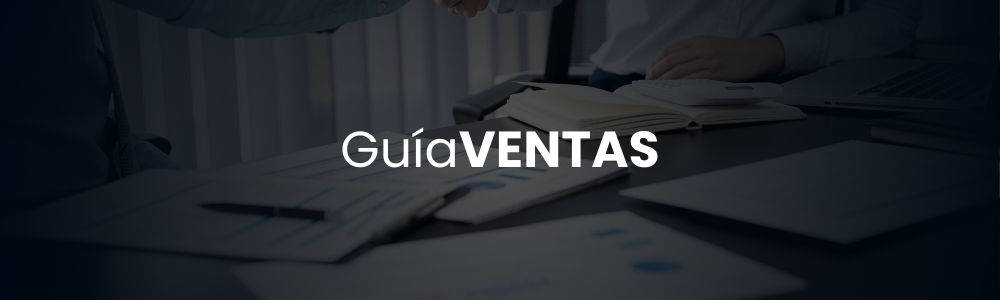
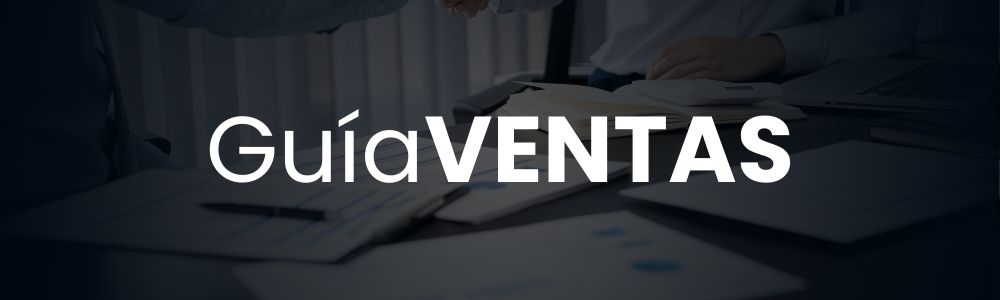
Subiendo cambios y nuevas imágenes

Changed region(s): [[0.186, 0.36, 0.806, 0.63]]

diff --git a/components/CalculatorTabs.js b/components/CalculatorTabs.js
@@ -17,30 +17,35 @@ export default function CalculatorTabs() {
 
   return (
     <div className={`${poppins.className} calculator-tabs`}>
-      {/* Se agrega padding superior para separar del header */}
-      <div style={{ paddingTop: "2rem" }}>
-        {/* Pestañas */}
-        <div className="tabs">
-          <button
-            className={activeTab === "renders" ? "active" : ""}
-            onClick={() => setActiveTab("renders")}
-          >
-            Calculadora de Renders
-          </button>
-          <button
-            className={activeTab === "360" ? "active" : ""}
-            onClick={() => setActiveTab("360")}
-          >
-            Calculadora de Vistas 360
-          </button>
-          <button
-            className={activeTab === "recorridos" ? "active" : ""}
-            onClick={() => setActiveTab("recorridos")}
-          >
-            Recorridos Virtuales
-          </button>
+      {/* Contenedor general */}
+      <div className="container">
+        {/* Pestañas Flotantes con Más Espacio en Móvil */}
+        <div className="tabs-wrapper">
+          <div className="tabs">
+            <button
+              className={activeTab === "renders" ? "active" : ""}
+              onClick={() => setActiveTab("renders")}
+            >
+              Calculadora de Renders
+            </button>
+            <button
+              className={activeTab === "360" ? "active" : ""}
+              onClick={() => setActiveTab("360")}
+            >
+              Calculadora de Vistas 360
+            </button>
+            <button
+              className={activeTab === "recorridos" ? "active" : ""}
+              onClick={() => setActiveTab("recorridos")}
+            >
+              Recorridos Virtuales
+            </button>
+          </div>
         </div>
       </div>
+
+      {/* Espaciador ajustado para evitar que el contenido quede cubierto */}
+      <div className="spacer"></div>
 
       {/* Contenido de la pestaña activa */}
       <div className="tab-content">
@@ -50,41 +55,107 @@ export default function CalculatorTabs() {
       </div>
 
       <style jsx>{`
+        /* Contenedor principal */
         .calculator-tabs {
           width: 100%;
           max-width: 1200px;
           margin: 3rem auto;
+          padding: 1rem;
         }
+
+        /* Contenedor con padding para evitar que se vea muy pegado */
+        .container {
+          max-width: 100%;
+          padding: 0 1rem;
+        }
+
+        /* Pestañas flotantes con más espacio arriba */
+        .tabs-wrapper {
+          position: sticky;
+          top: 80px; /* Mantiene las pestañas detrás del header */
+          z-index: 10;
+          background: rgba(0, 0, 0, 0.8);
+          backdrop-filter: blur(10px);
+          padding: 0.8rem 0;
+          border-radius: 10px;
+          box-shadow: 0 4px 8px rgba(0, 0, 0, 0.2);
+          display: flex;
+          justify-content: center;
+        }
+
         /* Diseño de las pestañas */
         .tabs {
           display: flex;
           justify-content: center;
           gap: 1rem;
-          background: #1a1a1a;
-          border-radius: 8px;
-          overflow: hidden;
-          margin-bottom: 2rem;
+          overflow-x: auto;
+          white-space: nowrap;
+          -webkit-overflow-scrolling: touch;
+          scrollbar-width: none;
         }
+        .tabs::-webkit-scrollbar {
+          display: none;
+        }
+
         .tabs button {
           flex: 1;
-          padding: 1rem 1.5rem;
+          padding: 1.2rem;
           border: none;
           background: transparent;
           color: #fff;
           font-size: 1.1rem;
           cursor: pointer;
           transition: background 0.3s ease, transform 0.3s ease;
+          min-width: 200px;
+          text-align: center;
+          border-radius: 8px;
         }
+
         .tabs button:hover {
           background: rgba(255, 255, 255, 0.1);
           transform: scale(1.05);
         }
+
         .tabs button.active {
-          background:rgb(44,100,146);
+          background: rgb(44, 100, 146);
           font-weight: 600;
         }
+
+        /* Ajustar el espaciado superior en móviles */
+        .spacer {
+          height: 4rem; /* Menos espacio en desktop */
+        }
+
+        /* Ajustes en pantallas pequeñas: Más espacio arriba y pestañas apiladas */
+        @media (max-width: 768px) {
+          .calculator-tabs {
+            padding: 0.5rem;
+            margin: 5rem auto; /* Más margen arriba */
+          }
+
+          /* Convertir las pestañas en una columna en móvil */
+          .tabs {
+            flex-direction: column;
+            gap: 0.5rem;
+            align-items: center;
+          }
+
+          .tabs button {
+            width: 100%;
+            font-size: 1rem;
+            padding: 1rem;
+            min-width: auto;
+          }
+
+          /* Mayor espacio arriba para que no se vea pegado al header */
+          .spacer {
+            height: 8rem;
+          }
+        }
+
+        /* Reducción del espacio entre pestañas y calculadora */
         .tab-content {
-          margin-top: 1rem;
+          margin-top: 1rem; /* Menos espacio entre pestañas y contenido */
         }
       `}</style>
     </div>

diff --git a/components/course-hero.tsx b/components/course-hero.tsx
@@ -1,7 +1,7 @@
 "use client";
 
 import { useState } from "react";
-import Image from "next/image"; // ✅ Usamos Next.js Image para compatibilidad con Vercel
+import Image from "next/image";
 import { Badge } from "@/components/ui/badge";
 import { Button } from "@/components/ui/button";
 import { Play, X } from "lucide-react";
@@ -11,8 +11,8 @@ interface CourseHeroProps {
   description: string;
   sessions: string;
   nextDate: string;
-  heroImage: string; // Imagen de fondo
-  videoLink: string; // Enlace del video
+  heroImage: string;
+  videoLink: string;
 }
 
 export function CourseHero({
@@ -31,26 +31,29 @@ export function CourseHero({
   };
 
   return (
-    <section className="relative py-24 w-full">
-      {/* Contenedor de imagen de fondo ✅ Usamos Next.js Image */}
-      <div className="absolute inset-0 -z-10">
+    <section className="relative py-24 w-full overflow-hidden">
+      {/* Contenedor de imagen de fondo con corrección de ancho */}
+      <div className="absolute inset-0 -z-10 w-full h-full">
         <Image
           src={heroImage}
           alt="Fondo del curso"
           layout="fill"
           objectFit="cover"
           priority
-          className="rounded-xl"
+          className="w-full h-full"
         />
         {/* Gradiente superpuesto */}
-        <div className="absolute inset-0 bg-gradient-to-b from-background/50 to-background rounded-xl" />
+        <div className="absolute inset-0 bg-gradient-to-b from-background/50 to-background" />
       </div>
 
-      {/* Contenido principal centrado */}
+      {/* Contenido principal centrado y corregido */}
       <div className="relative z-10 w-full pt-16">
-        <div className="mx-auto max-w-3xl text-center">
-          <h1 className="mb-6 text-5xl font-bold text-white">{title}</h1>
-          <p className="mb-8 text-xl text-white">{description}</p>
+        <div className="mx-auto max-w-[90%] md:max-w-3xl text-center">
+          {/* Corrección del tamaño del título en móviles */}
+          <h1 className="mb-6 text-4xl md:text-5xl font-bold text-white break-words text-wrap">
+            {title}
+          </h1>
+          <p className="mb-8 text-lg md:text-xl text-white">{description}</p>
           <div className="flex flex-wrap items-center justify-center gap-4">
             <Badge className="text-lg bg-[rgba(5,24,46,0.9)] text-white px-3 py-1 rounded">
               {sessions}
@@ -75,7 +78,7 @@ export function CourseHero({
         </div>
       </div>
 
-      {/* Modal de video con dimensiones verticales corregidas ✅ */}
+      {/* Modal de video con dimensiones corregidas ✅ */}
       {videoVisible && (
         <div
           className="fixed inset-0 bg-black bg-opacity-80 flex items-center justify-center z-50 p-4"

diff --git a/components/footer.tsx b/components/footer.tsx
@@ -10,7 +10,7 @@ export function Footer() {
           El uso de 'group' en el footer y 'group-hover:opacity-20' permite que al pasar el cursor sobre todo el footer, 
           se revele la imagen (a un 20% de opacidad, ajusta según necesites).
       */}
-      <div className="absolute inset-0 bg-[url('/images/archdesignlogo.png')]  bg-contain bg-center opacity-0 group-hover:opacity-5 transition-opacity duration-300 pointer-events-none" />
+      <div className="absolute inset-0  bg-contain bg-center opacity-0 group-hover:opacity-5 transition-opacity duration-300 pointer-events-none" />
 
       <div className="container relative py-16">
         <div className="grid gap-8 md:grid-cols-2 lg:grid-cols-4">

diff --git a/app/layout.tsx b/app/layout.tsx
@@ -1,6 +1,7 @@
 import { Poppins } from "next/font/google";
 import { ThemeProvider } from "@/components/theme-provider";
 import { SpeedInsights } from "@vercel/speed-insights/next";
+import { Analytics } from "@vercel/analytics/react"
 import "./globals.css";
 
 const poppins = Poppins({
@@ -32,6 +33,7 @@ export default function RootLayout({
         >
           {/* SpeedInsights para optimización de rendimiento */}
           <SpeedInsights />
+          <Analytics/>
 
           {/* Content Wrapper */}
           <div className="relative z-10 flex flex-col items-center justify-center min-h-screen px-4">

diff --git a/components/loscursos.tsx b/components/loscursos.tsx
@@ -60,7 +60,7 @@ export function Loscursos() {
 
               {/* Contenido de la tarjeta */}
               <div className="absolute inset-0 p-6 flex flex-col justify-end z-10">
-                <h3 className="text-4xl font-bold text-white mb-2">
+                <h3 className="text-4xl md:text-3xl font-bold text-white mb-2 text-shadow-md break-words">
                   {card.title}
                 </h3>
 

diff --git a/components/blog-grid.tsx b/components/blog-grid.tsx
@@ -29,7 +29,7 @@ const blogPosts = [
   {
     title: "Guía Rápida de Marketing",
     excerpt: "Descubre estrategias efectivas de marketing para potenciar tus renders.",
-    image: "/images/ventas2.jpg", // ruta de la imagen para la guía de marketing
+    image: "/images/ventas.jpg", // ruta de la imagen para la guía de marketing
     category: "Guía",
     date: "Proximamente",
     readTime: "pdf",

diff --git a/components/testimonial-carousel.tsx b/components/testimonial-carousel.tsx
@@ -12,7 +12,7 @@ import {
 
 const testimonials = [
   {
-    image: "/images/Hero1.png",
+    image: "/images/hero1.png",
     type: "image",
     user: "@arch.design_studio_, con herramientas de RenderPro",
     video: "",
